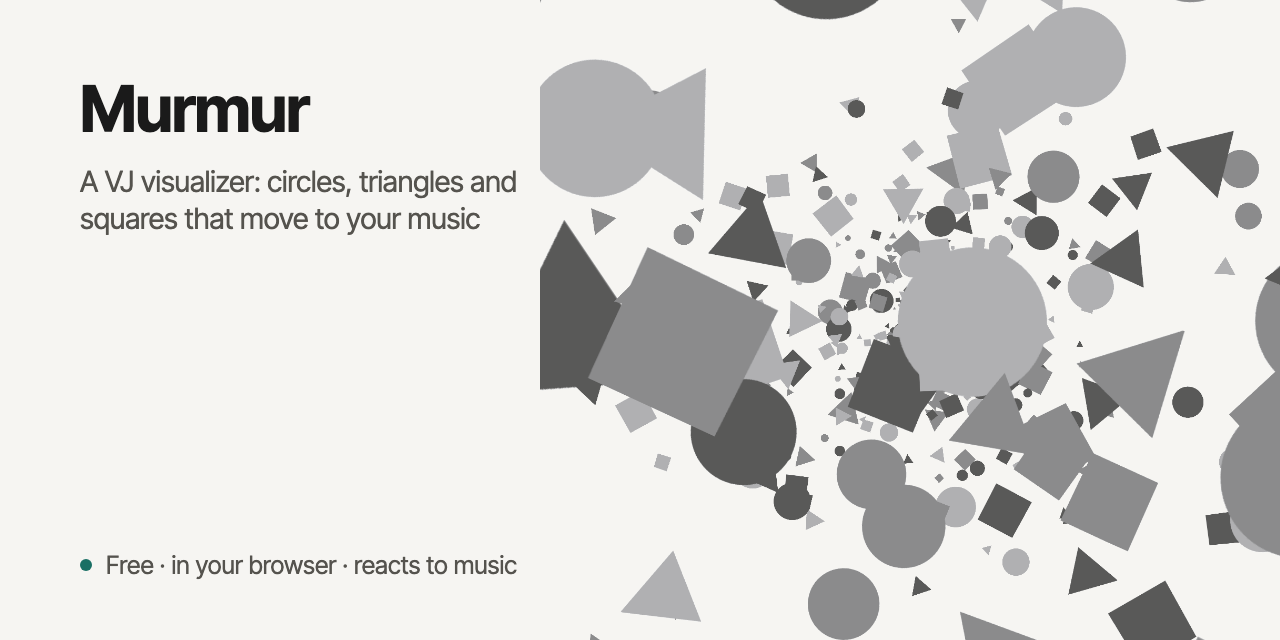
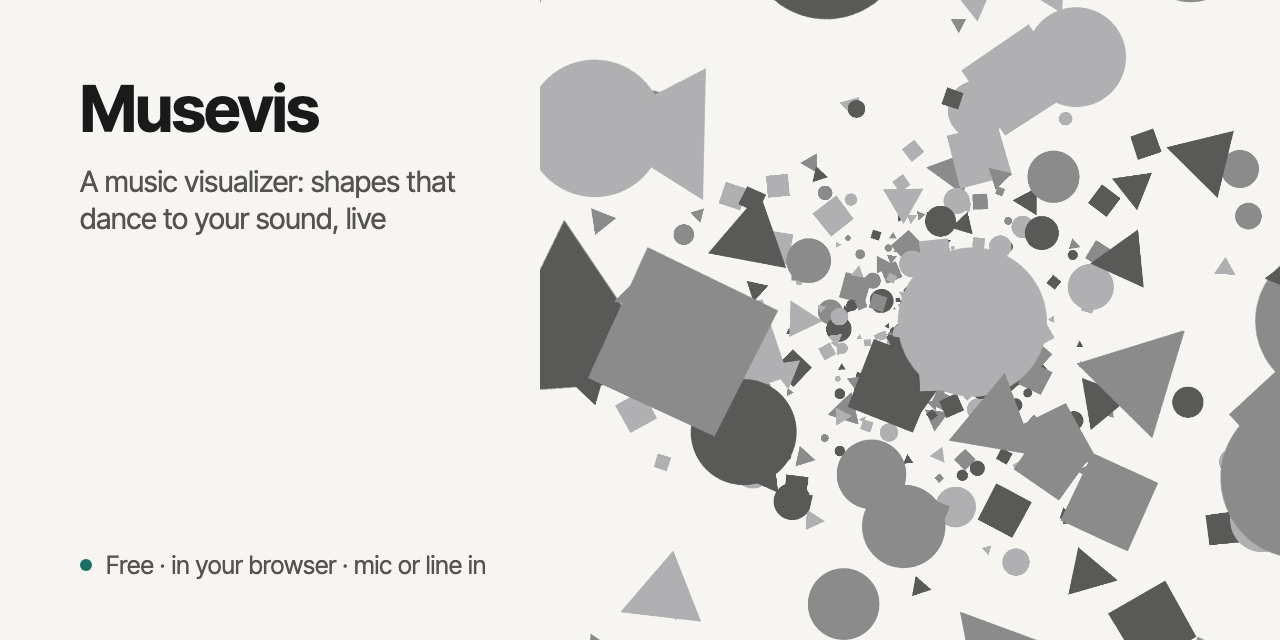
Rename to Musevis: a music visualizer

Changed region(s): [[0.0625, 0.25, 0.4062, 0.375], [0.125, 0.125, 0.25, 0.2188], [0.2812, 0.875, 0.4062, 0.9062]]

diff --git a/index.html b/index.html
@@ -3,9 +3,9 @@
 <head>
 <meta charset="utf-8">
 <meta name="viewport" content="width=device-width,initial-scale=1">
-<title>Murmur · VJ visualizer</title>
+<title>Musevis · music visualizer</title>
 
-<meta name="murmur-build" content=""><meta name="description" content="A VJ visualizer: circles, triangles and squares that move to your music. One HTML file, runs in the browser."><meta property="og:type" content="website"><meta property="og:title" content="Murmur"><meta property="og:description" content="A VJ visualizer: circles, triangles and squares that move to your music. One HTML file, runs in the browser."><meta property="og:url" content="https://robvagin.github.io/murmur-vj/"><meta property="og:image" content="https://robvagin.github.io/murmur-vj/docs/social.png"><meta property="og:image:width" content="1280"><meta property="og:image:height" content="640"><meta name="twitter:card" content="summary_large_image">
+<meta name="murmur-build" content=""><meta name="description" content="A VJ visualizer: circles, triangles and squares that move to your music. One HTML file, runs in the browser."><meta property="og:type" content="website"><meta property="og:title" content="Musevis"><meta property="og:description" content="A VJ visualizer: circles, triangles and squares that move to your music. One HTML file, runs in the browser."><meta property="og:url" content="https://robvagin.github.io/musevis/"><meta property="og:image" content="https://robvagin.github.io/musevis/docs/social.png"><meta property="og:image:width" content="1280"><meta property="og:image:height" content="640"><meta name="twitter:card" content="summary_large_image">
 
 
[1 lines of base64/hex data omitted]
@@ -527,7 +527,7 @@ input.sw:checked{border:0;background:var(--ink)}
 <aside id="panel">
   
   <div class="ptitle titleline">
-    <span>Murmur <i>v1.0</i></span>
+    <span>Musevis <i>v1.0</i></span>
[1 lines of base64/hex data omitted]
   </div>
   <div class="pbody">
@@ -10447,7 +10447,7 @@ input.sw:checked{border:0;background:var(--ink)}
     const m = document.querySelector('meta[name="murmur-build"]');
     const id = window.__MURMUR_BUILD__ && window.__MURMUR_BUILD__.buildId || m && m.content || '';
     return Object.assign({
-      product: 'Murmur',
+      product: 'Musevis',
       buildId: id || 'dev',
       schemaVersion: SCENE_V
     }, window.__MURMUR_BUILD__ || {});

diff --git a/README.md b/README.md
@@ -1,8 +1,8 @@
 <p align="center">
-  <img src="docs/assets/murmur-loop.gif" width="520" alt="Murmur: grey circles, triangles and squares moving to music">
+  <img src="docs/assets/murmur-loop.gif" width="520" alt="Musevis: grey circles, triangles and squares moving to music">
 </p>
 
-<h1 align="center">Murmur</h1>
+<h1 align="center">Musevis</h1>
 
 <p align="center">
   A VJ visualizer for DJ sets: circles, triangles and squares that move to your music<br>
@@ -10,7 +10,7 @@
 </p>
 
 <p align="center">
-  <a href="https://robvagin.github.io/murmur-vj/"><b>Open Murmur</b></a> ·
+  <a href="https://robvagin.github.io/musevis/"><b>Open Musevis</b></a> ·
   <a href="#run-it-locally">Run it locally</a> ·
   <a href="#vibe-coded-by-a-designer">How it was made</a> ·
   <a href="#more-tools">More tools</a>
@@ -18,11 +18,11 @@
 
 ---
 
-A murmuration is thousands of starlings moving as one body. Murmur does the same with simple shapes: it listens to the room, finds the beat and moves a field of bodies with the music. Put it on a projector behind the decks and hide the panels.
+Musevis is a music visualizer for VJ sets: it listens to the room, finds the beat and moves a field of simple shapes with the music. Put it on a projector behind the decks and hide the panels.
 
 ## What it does
 
-- **Listens.** Live input from a microphone or a line in. Murmur detects the BPM, splits the sound into bands (sub, bass, mids, highs) and feels every hit
+- **Listens.** Live input from a microphone or a line in. Musevis detects the BPM, splits the sound into bands (sub, bass, mids, highs) and feels every hit
 - **Moves.** 22 behaviors: swarm, flock, orbit, ripple, shock, jelly, strobe, rain, turbulence, pendulum and more. Each one answers the beat in its own way
 - **Builds a set from layers.** Every layer has its own bodies, physics, opacity and blend. Stack them, solo them, hide them
 - **Forms.** Bodies gather into a symbol or into any word you type, then scatter again
@@ -33,7 +33,7 @@ A murmuration is thousands of starlings moving as one body. Murmur does the same
 - **Scenes.** Eight scene slots, export and import as JSON; after a reload, one click brings the last session back
 
 <p align="center">
-  <img src="docs/assets/murmur-panel.png" width="100%" alt="Murmur with its panels: character, layers, sound and camera">
+  <img src="docs/assets/murmur-panel.png" width="100%" alt="Musevis with its panels: character, layers, sound and camera">
 </p>
 
 <p align="center">
@@ -42,13 +42,13 @@ A murmuration is thousands of starlings moving as one body. Murmur does the same
 
 ## Run it
 
-**In the browser:** open [robvagin.github.io/murmur-vj](https://robvagin.github.io/murmur-vj/), press **ARM** and allow the microphone. Built and tested in Chrome.
+**In the browser:** open [robvagin.github.io/musevis](https://robvagin.github.io/musevis/), press **ARM** and allow the microphone. Built and tested in Chrome.
 
 ### Run it locally
 
 ```sh
-git clone https://github.com/robvagin/murmur-vj.git
-cd murmur-vj
+git clone https://github.com/robvagin/musevis.git
+cd musevis
 ./serve.sh
 ```
 
@@ -58,7 +58,7 @@ No install, no build step, no dependencies: `index.html` and `audio-core.js` are
 
 ## Vibe-coded by a designer
 
-I'm a designer. I built Murmur for parties with AI agents: I made the decisions, Claude Code wrote the code. This is the open version of the visualizer I play my own sets with.
+I'm a designer. I built Musevis for parties with AI agents: I made the decisions, Claude Code wrote the code. This is the open version of the visualizer I play my own sets with.
 
 Take it if you want it.
 
